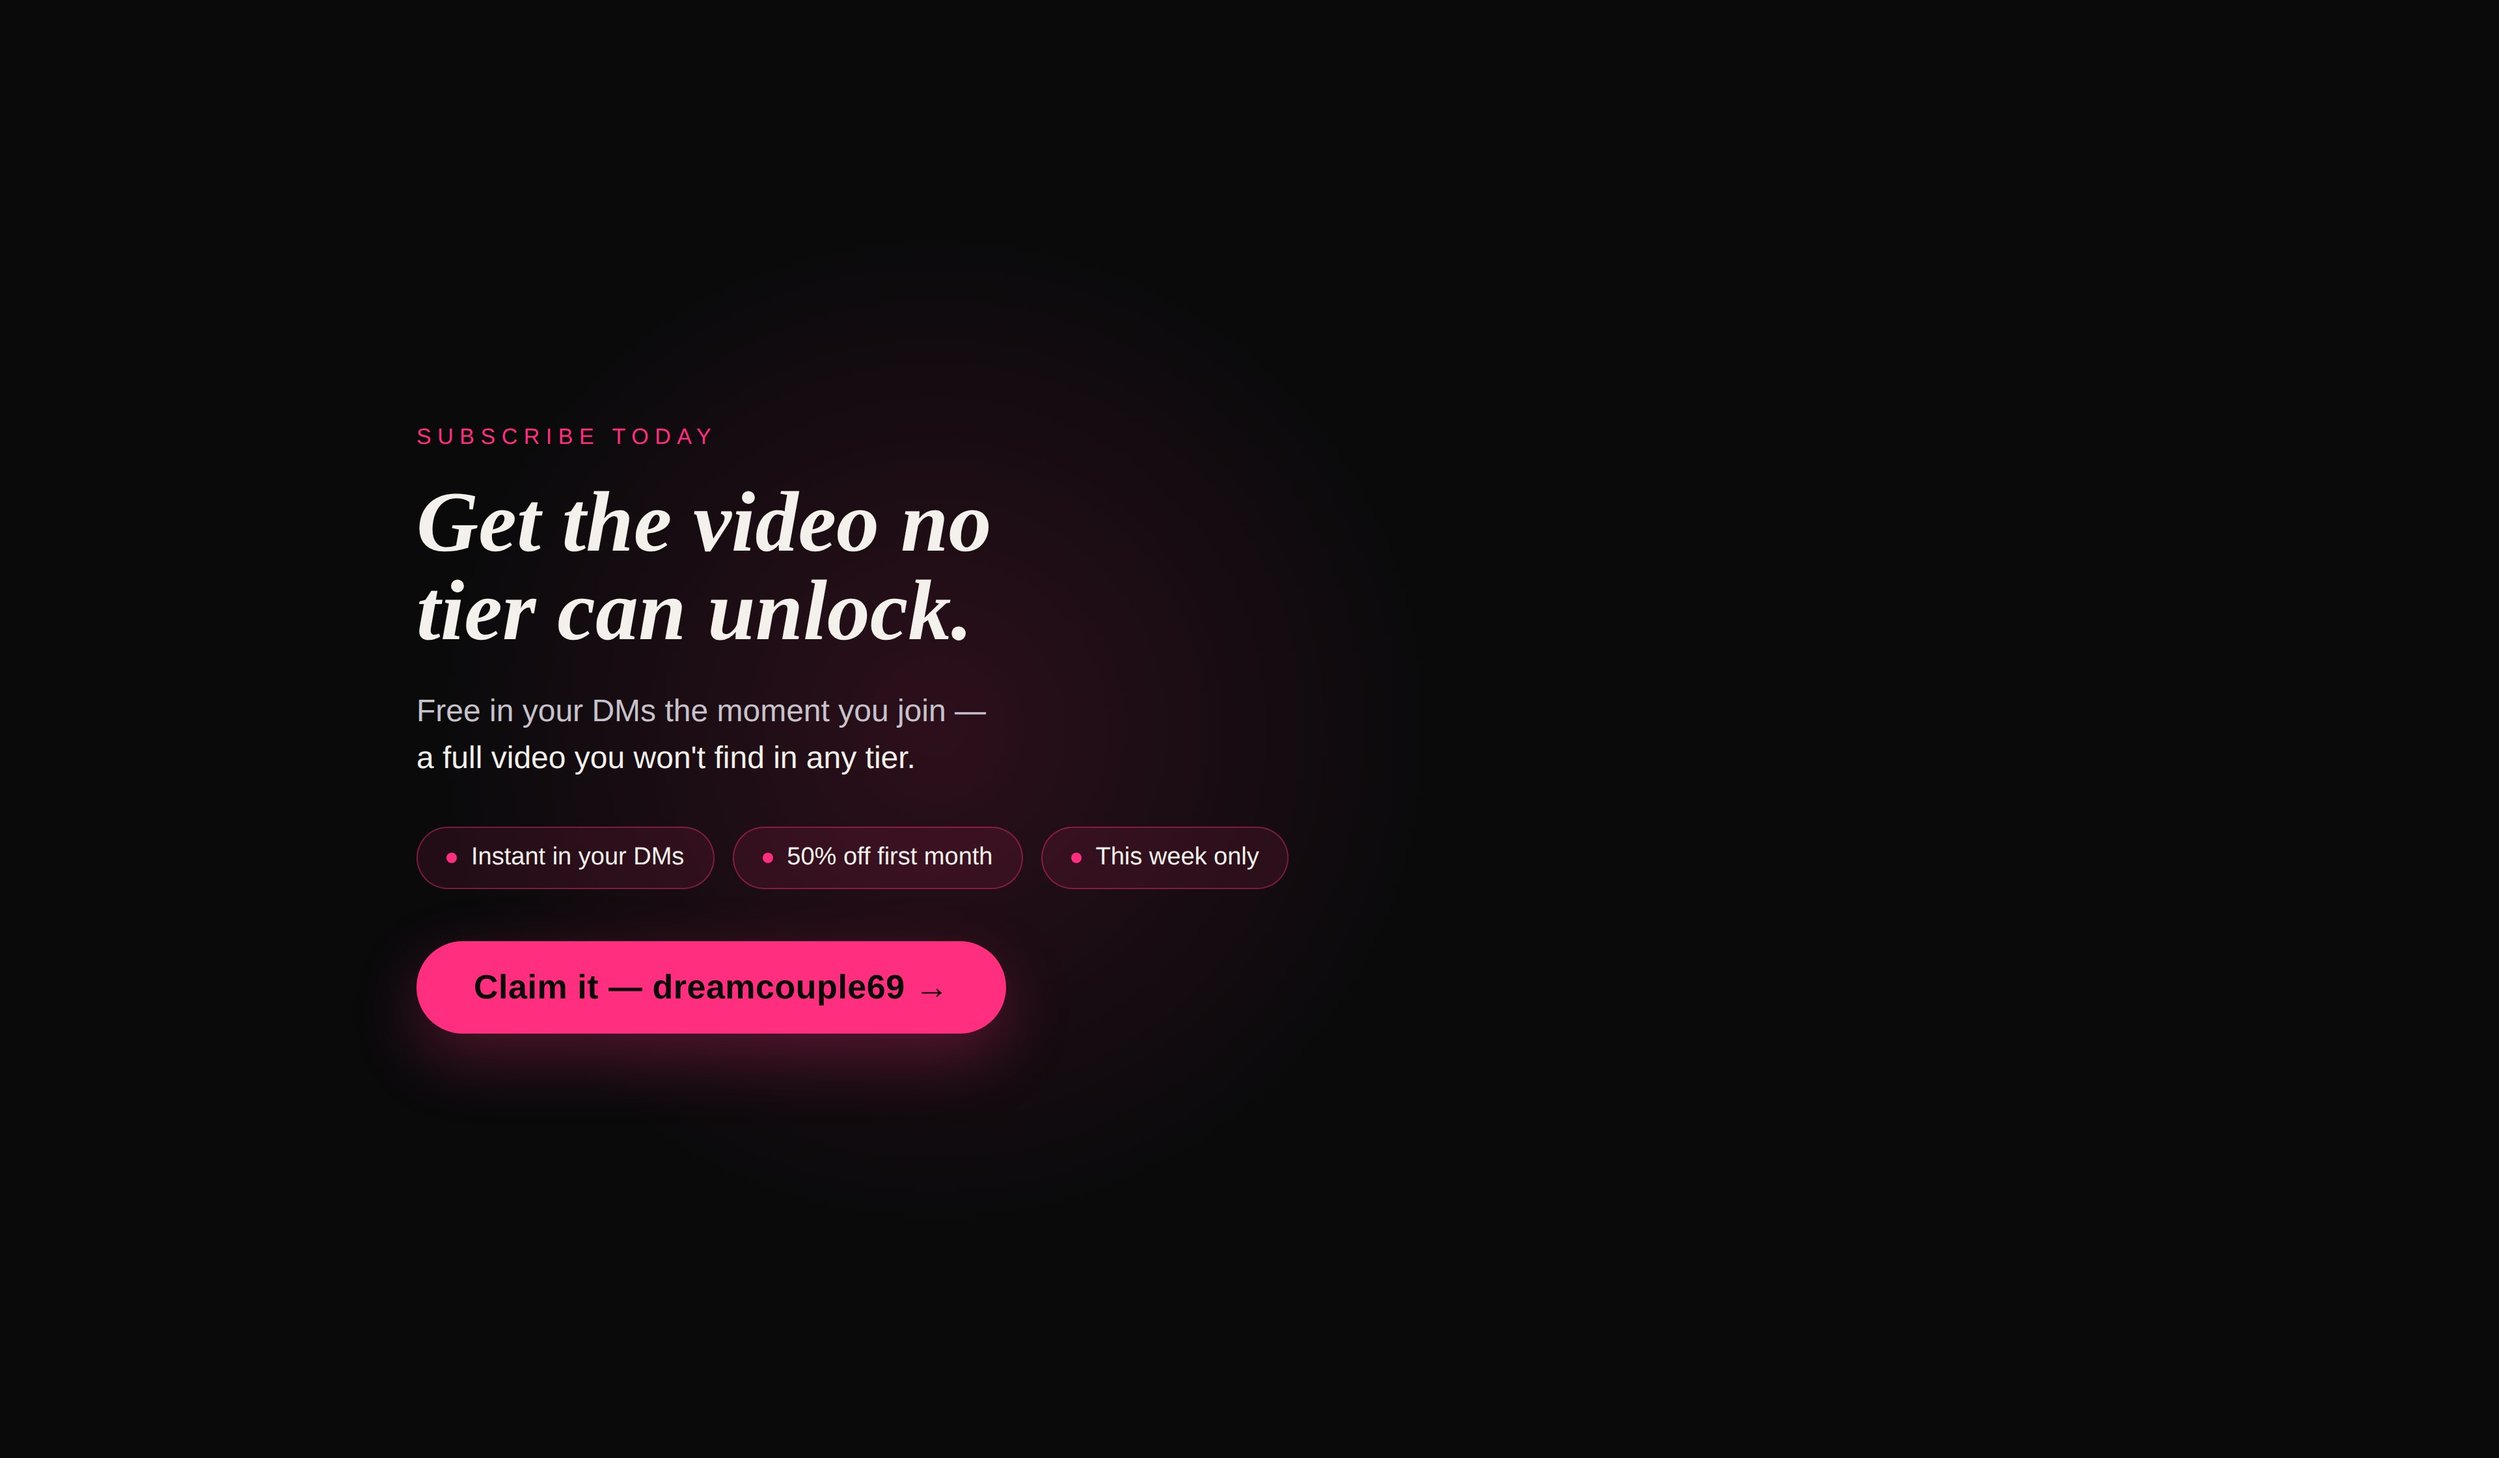
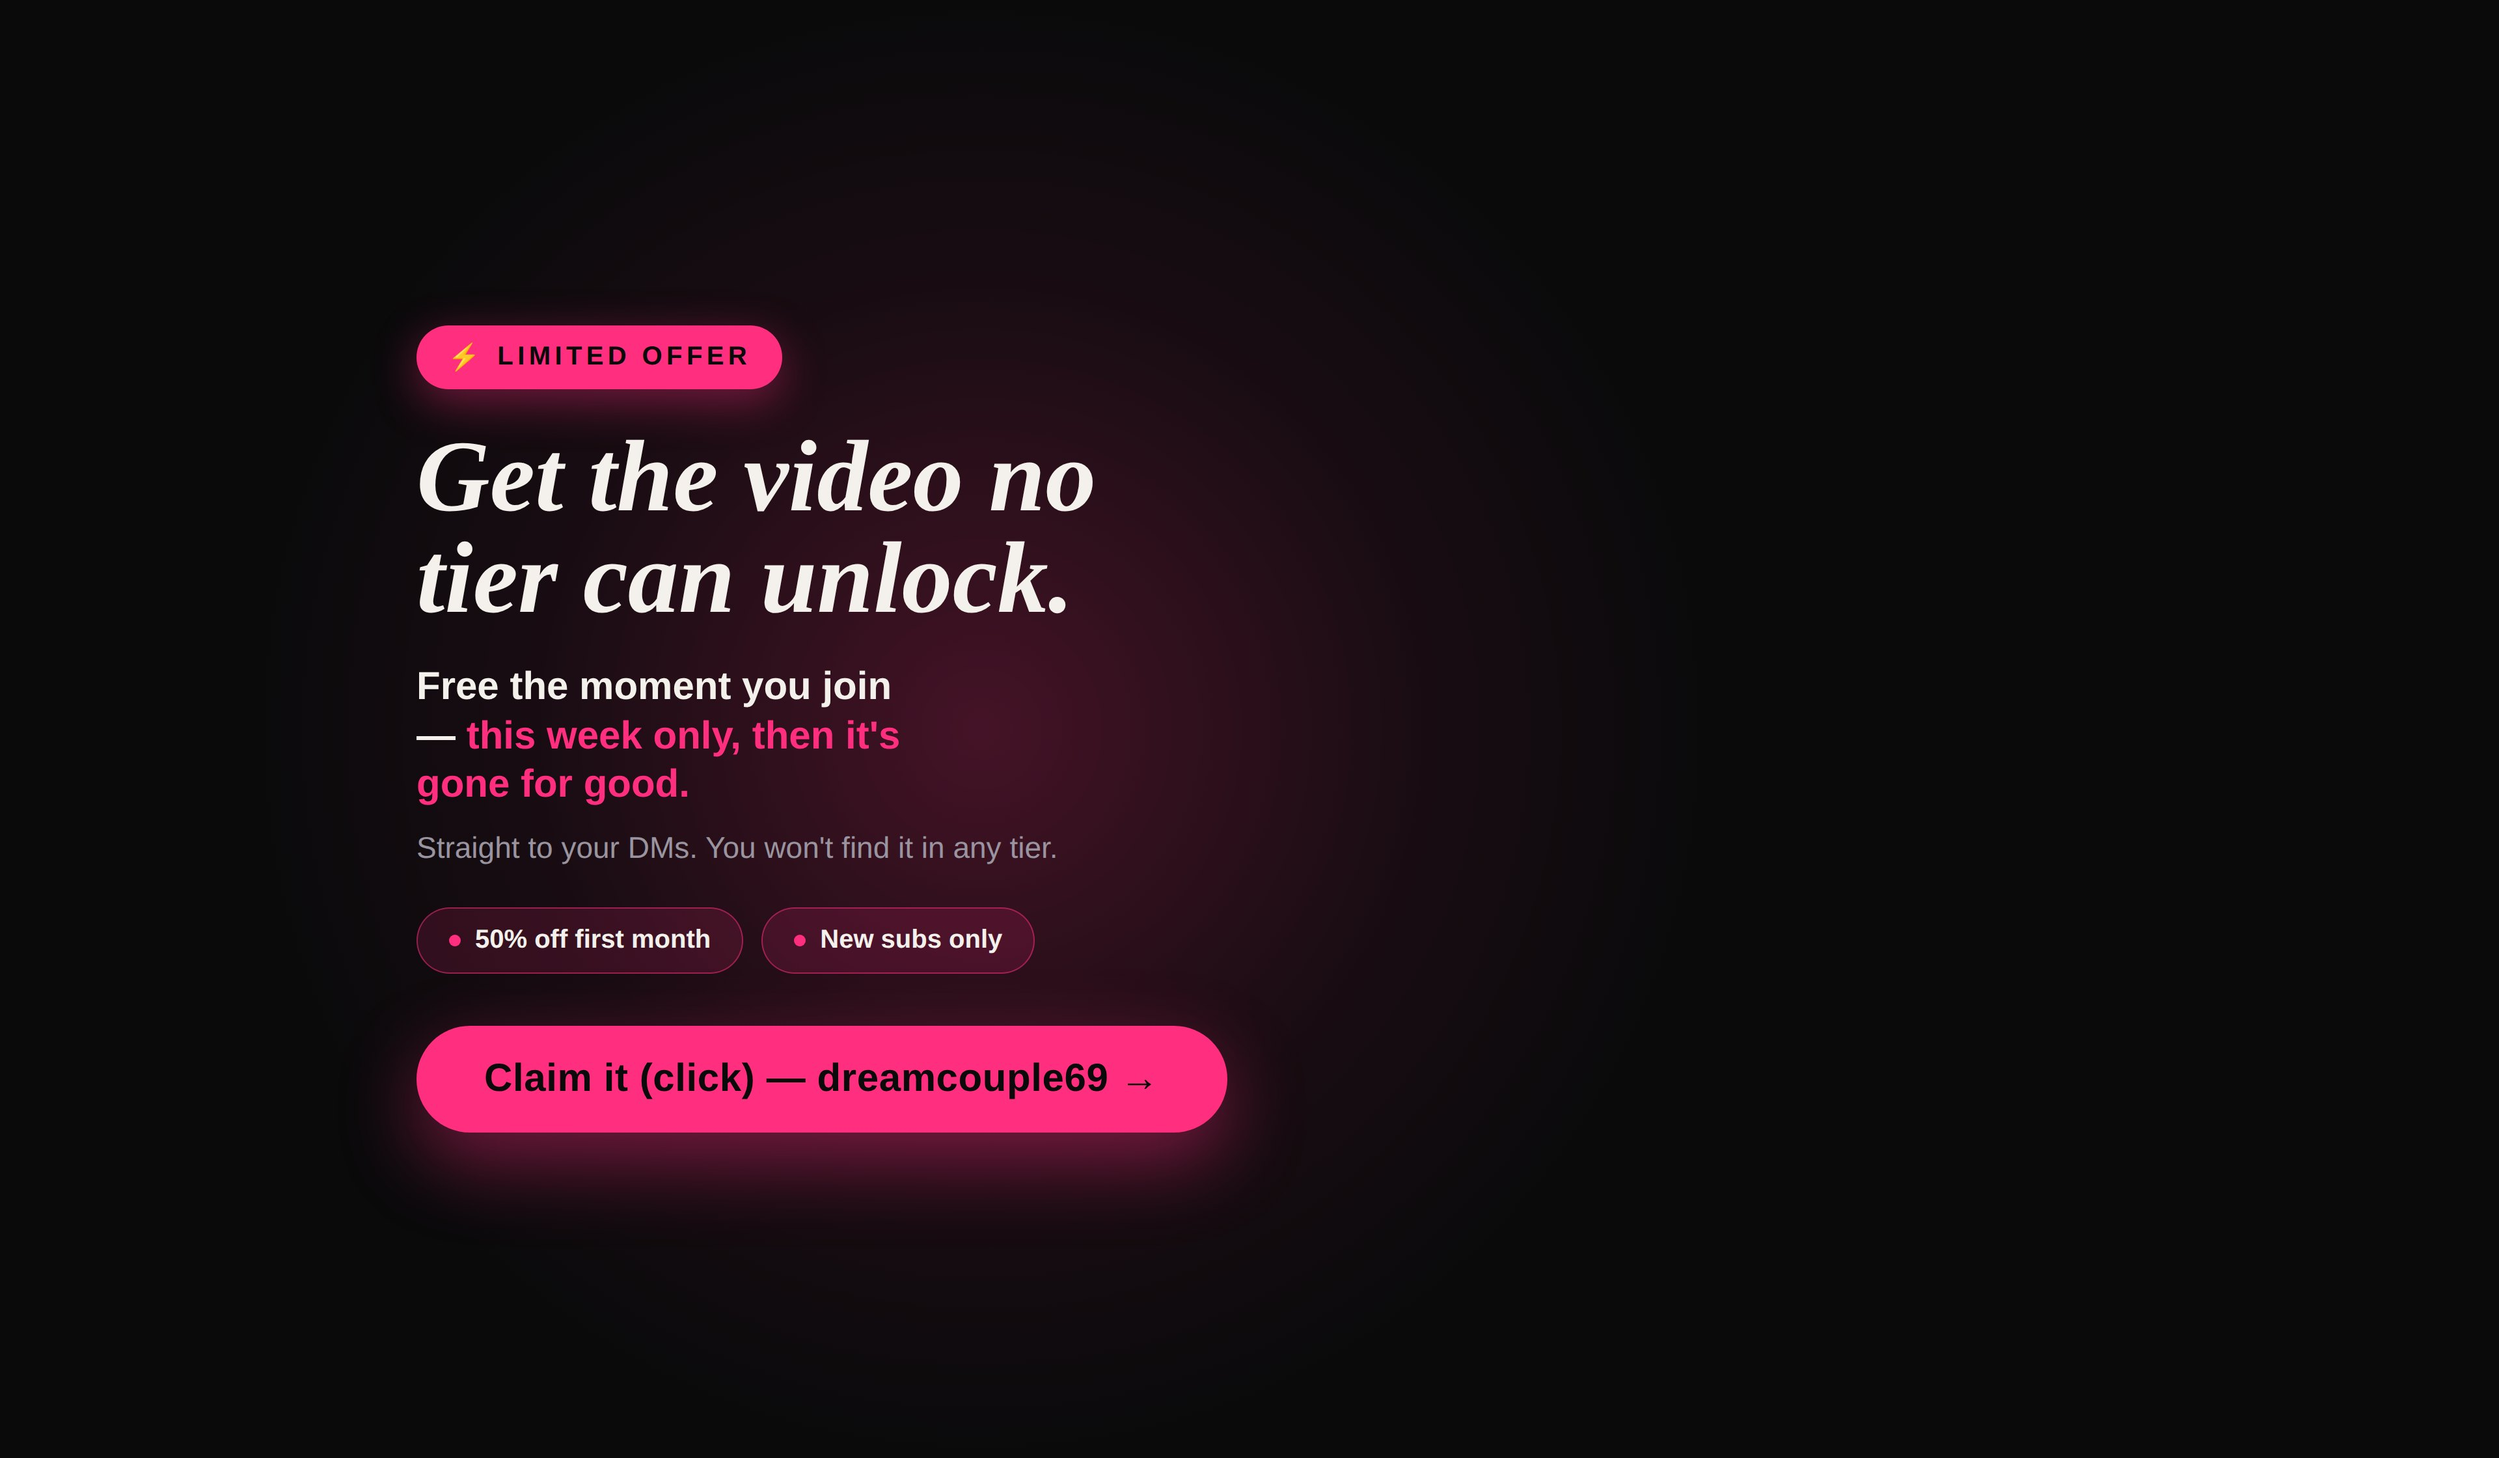
Offer block: louder (badge, FOMO, pink wash) + (click) on button
Claude-Session: https://claude.ai/code/session_01RtbiUYFNdswaq59EqqYNLn

Changed region(s): [[0.1562, 0.2188, 0.5, 0.8438]]

diff --git a/fg-offer.html b/fg-offer.html
@@ -1,41 +1,44 @@
 <!DOCTYPE html>
 <html lang="en"><head><meta charset="utf-8">
 <link rel="preconnect" href="https://fonts.googleapis.com"><link rel="preconnect" href="https://fonts.gstatic.com" crossorigin>
-<link href="https://fonts.googleapis.com/css2?family=Fraunces:ital,opsz,wght@1,9..144,500;1,9..144,600&family=Inter:wght@300;400;500;600&display=swap" rel="stylesheet">
+<link href="https://fonts.googleapis.com/css2?family=Fraunces:ital,opsz,wght@1,9..144,600&family=Inter:wght@300;400;500;600;700&display=swap" rel="stylesheet">
 <style>
-  :root{--warm:#F4F1EC;--mute:#8b8690;--hot:#FF2E7E;--line:rgba(244,241,236,.12);}
+  :root{--warm:#F4F1EC;--mute:#9a94a0;--hot:#FF2E7E;}
   *{box-sizing:border-box;margin:0;padding:0;}
   .bar{width:1920px;height:1120px;background:#0A0A0B;font-family:'Inter',sans-serif;color:var(--warm);
-    display:flex;flex-direction:column;justify-content:center;padding:0 320px;position:relative;}
-  .glow{position:absolute;left:14%;top:50%;width:900px;height:900px;transform:translateY(-50%);
-    background:radial-gradient(circle,rgba(255,46,126,.14) 0%,rgba(255,46,126,0) 60%);}
+    display:flex;flex-direction:column;justify-content:center;padding:0 320px;position:relative;overflow:hidden;}
+  .wash{position:absolute;left:8%;top:50%;width:1200px;height:1200px;transform:translateY(-50%);
+    background:radial-gradient(circle,rgba(255,46,126,.24) 0%,rgba(255,46,126,.06) 40%,rgba(255,46,126,0) 66%);}
   .in{position:relative;}
-  .eyebrow{font-weight:500;font-size:17px;letter-spacing:.28em;text-transform:uppercase;color:var(--hot);margin-bottom:22px;}
-  h1{font-family:'Fraunces',serif;font-style:italic;font-weight:600;font-size:66px;line-height:1.02;letter-spacing:0;max-width:16ch;}
-  .lead{margin-top:26px;font-size:24px;font-weight:300;line-height:1.5;color:#c7c2cb;max-width:34ch;}
-  .lead b{color:var(--warm);font-weight:500;}
-  .chips{margin-top:34px;display:flex;gap:14px;flex-wrap:wrap;}
-  .chip{display:inline-flex;align-items:center;gap:11px;font-weight:500;font-size:19px;color:var(--warm);
-    background:rgba(255,46,126,.1);border:1px solid rgba(255,46,126,.4);border-radius:999px;padding:12px 22px;}
-  .chip .dot{width:8px;height:8px;border-radius:50%;background:var(--hot);}
+  .badge{display:inline-flex;align-items:center;gap:10px;background:var(--hot);color:#0A0A0B;
+    font-weight:700;font-size:20px;letter-spacing:.16em;text-transform:uppercase;padding:12px 24px;border-radius:999px;
+    box-shadow:0 10px 34px rgba(255,46,126,.4);margin-bottom:28px;}
+  .badge .b{font-size:20px;}
+  h1{font-family:'Fraunces',serif;font-style:italic;font-weight:600;font-size:78px;line-height:1.0;letter-spacing:0;max-width:15ch;}
+  .fomo{margin-top:26px;font-family:'Inter',sans-serif;font-weight:600;font-size:30px;line-height:1.25;color:var(--warm);max-width:24ch;}
+  .fomo b{color:var(--hot);}
+  .sub{margin-top:16px;font-size:23px;font-weight:300;color:var(--mute);}
+  .chips{margin-top:32px;display:flex;gap:14px;flex-wrap:wrap;}
+  .chip{display:inline-flex;align-items:center;gap:11px;font-weight:600;font-size:20px;color:var(--warm);
+    background:rgba(255,46,126,.14);border:1px solid rgba(255,46,126,.5);border-radius:999px;padding:13px 24px;}
+  .chip .dot{width:9px;height:9px;border-radius:50%;background:var(--hot);}
   .tap{margin-top:40px;display:inline-flex;align-items:center;gap:14px;align-self:flex-start;background:var(--hot);color:#0A0A0B;
-    font-family:'Space Grotesk','Inter',sans-serif;font-weight:600;font-size:26px;letter-spacing:.01em;padding:20px 44px;border-radius:999px;
-    box-shadow:0 18px 50px rgba(255,46,126,.28);}
-  .small{margin-top:18px;font-size:16px;color:var(--mute);}
+    font-family:'Inter',sans-serif;font-weight:700;font-size:30px;letter-spacing:.01em;padding:24px 52px;border-radius:999px;
+    box-shadow:0 22px 60px rgba(255,46,126,.42);}
 </style></head>
 <body>
 <div class="bar">
-  <div class="glow"></div>
+  <div class="wash"></div>
   <div class="in">
-    <div class="eyebrow">Subscribe today</div>
+    <div class="badge"><span class="b">&#9889;</span>Limited offer</div>
     <h1>Get the video no tier can unlock.</h1>
-    <div class="lead">Free in your DMs the moment you join — <b>a full video you won't find in any tier.</b></div>
+    <div class="fomo">Free the moment you join — <b>this week only, then it's gone for good.</b></div>
+    <div class="sub">Straight to your DMs. You won't find it in any tier.</div>
     <div class="chips">
-      <span class="chip"><span class="dot"></span>Instant in your DMs</span>
       <span class="chip"><span class="dot"></span>50% off first month</span>
-      <span class="chip"><span class="dot"></span>This week only</span>
+      <span class="chip"><span class="dot"></span>New subs only</span>
     </div>
-    <div class="tap">Claim it — dreamcouple69 &#8594;</div>
+    <div class="tap">Claim it (click) — dreamcouple69 &#8594;</div>
   </div>
 </div>
 </body></html>
